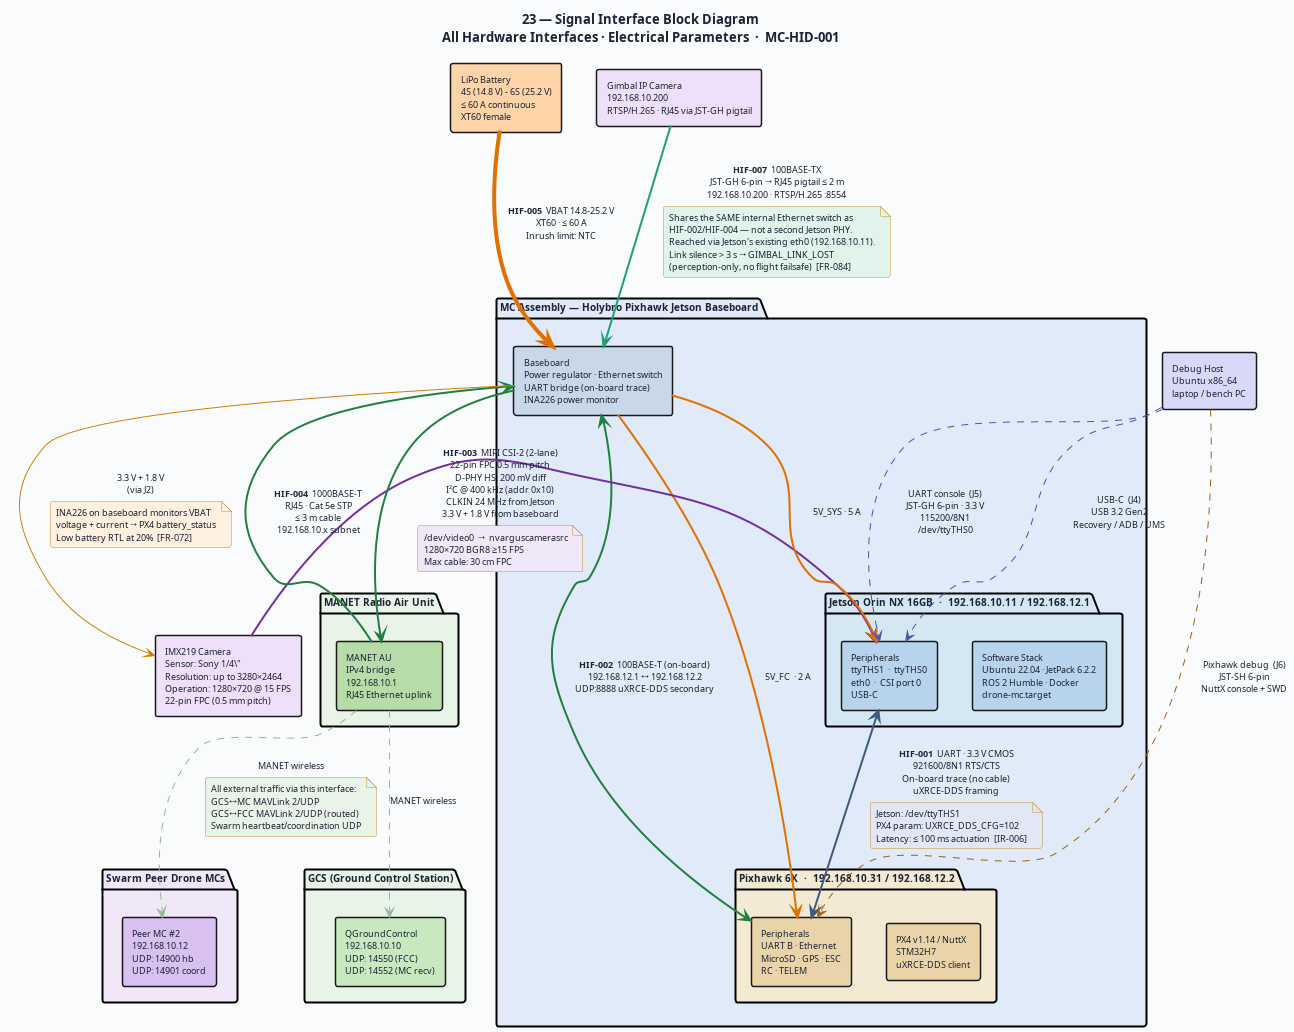
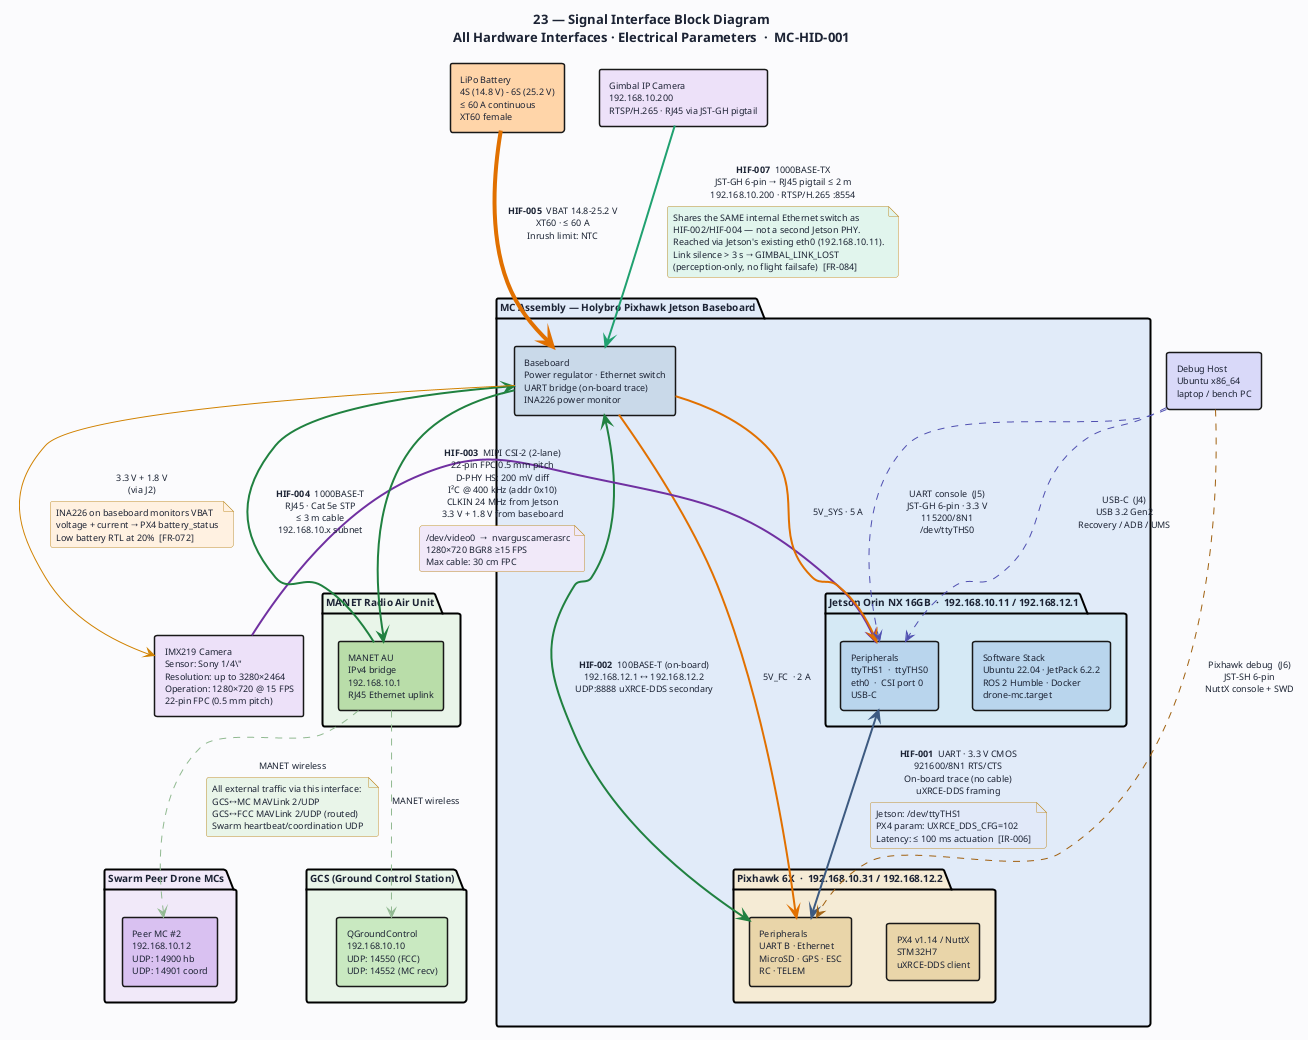
NEAR-631 - docs: update CONTRIBUTING, DEPLOYMENT, and design documents for CI/CD and network topology improvements

diff --git a/docs/CONTRIBUTING.md b/docs/CONTRIBUTING.md
@@ -106,13 +106,64 @@ Don't narrate *what* the code does when the identifier already says it —
 these three patterns are about *why* and *whose responsibility*, which
 nothing else in the repo captures.
 
+## Python style
+
+Two different flavors of Python live in this repo, and they follow
+different conventions because only one of them goes through `ament_lint_auto`:
+
+| | ROS 2 packages (`ws/src/*/`, e.g. `mc_test_utils`) | Standalone tools (`tools/`, e.g. `mission-orchestrator-sim`) |
+|---|---|---|
+| Build | `ament_cmake_python` + `ament_python_install_package()` in `CMakeLists.txt` | Plain `pip install -r requirements.txt` into a venv — no ROS 2, no colcon |
+| Lint | `ament_lint_auto` (flake8 + pep257) rides along in `colcon test`, same as C++ | None wired up — style is by convention/review only |
+| Quotes | `'single'` (flake8's default; observed consistently in `mc_test_utils/*.py`) | `"double"` (observed consistently in `mission_orchestrator_sim/*.py`) |
+| Type hints | Present but not exhaustive (mock nodes, callbacks) | Used consistently on every function signature (`cli.py`, `dialect.py`, `transport.py`) |
+
+Both flavors agree on:
+
+- `from __future__ import annotations` as the first import, in every file
+  that uses type hints.
+- Import order: standard library, blank line, then everything else
+  (third-party and local) alphabetized by module name in one block —
+  `from X import Y` and `import Z` are sorted together, not grouped
+  separately by style. Example (`ws/src/mc_test_utils/mc_test_utils/bag_playback.py`):
+
+  ```python
+  from __future__ import annotations
+
+  from rclpy.serialization import deserialize_message
+  import rosbag2_py
+  from rosidl_runtime_py.utilities import get_message
+  ```
+
+- A module-level docstring citing the ticket/spec section, in the same
+  voice as the C++ [comment culture](#comment-culture-cite-the-ticket-state-the-boundary-flag-the-gap)
+  above — what the module does, which ticket/ICD section it implements, and
+  any gap notes (see `mc_test_utils/swarm_protocol.py`'s `PEER_STATE_REQUEST`
+  and byte-count gap notes for the pattern). No copyright header block like
+  the C++ two-liner — none of the existing `.py` files carry one.
+- Executables get a `#!/usr/bin/env python3` shebang line before the
+  docstring (see `mc_test_utils/mock_fcc_node.py`); importable modules with
+  no standalone entry point don't need one.
+- `snake_case` functions/methods/variables, `PascalCase` classes — standard
+  PEP 8, no project-specific deviation.
+
+New Python code should match whichever column above it belongs to: a new
+`ws/src/` package's `.py` files follow the ROS/flake8 conventions (and must
+add the same `ament_lint_auto`/`set(ament_cmake_copyright_FOUND TRUE)`
+`CMakeLists.txt` wiring as `mc_test_utils`, per
+[Linting and formatting](#linting-and-formatting) below); a new standalone
+`tools/` script follows the double-quote/type-hint style of
+`mission-orchestrator-sim` instead of introducing a third convention.
+
 ## Linting and formatting
 
 Every package's `CMakeLists.txt` wires `ament_lint_auto` into
 `BUILD_TESTING` — running `colcon test` runs `cpplint`, `uncrustify`,
 `lint_cmake`, and `xmllint` alongside the gtest suites, so a clean
-`colcon test-result` already means the style checks passed too. Two things
-every new package needs to carry over:
+`colcon test-result` already means the style checks passed too. A Python
+package (`ament_cmake_python` build type, e.g. `mc_test_utils`) picks up
+`flake8` and `pep257` from the same `ament_lint_auto` call instead — no
+separate wiring needed. Two things every new package needs to carry over:
 
 ```cmake
 if(BUILD_TESTING)
@@ -214,6 +265,34 @@ Co-Authored-By: Claude Sonnet 5 <noreply@anthropic.com>
   trailer if Claude Code produced the commit, matching every prior commit
   in this repo's history that it authored.
 
+## CI/CD (TEST-005)
+
+Three GitHub Actions workflows, `.github/workflows/`:
+
+| Workflow | Trigger | What it does |
+|---|---|---|
+| `ci.yml` | Every PR, every push to `main` | Builds `ros2-core` (cached), then `colcon build` + `colcon test` across all of `ws/src/*` — `ament_lint_auto` (cpplint/cppcheck/uncrustify/xmllint) rides along since it's already wired into every package's `BUILD_TESTING` block (see [Linting and formatting](#linting-and-formatting) above). Results post to the job's step summary and as a downloadable artifact. |
+| `nightly-sitl.yml` | Scheduled, nightly | Placeholder until `TEST-002`'s SITL harness exists (`docs/TESTING.md`'s TP-ST row) — documented no-op, not a faked pass. |
+| `release.yml` | Push of a `v*` tag | Builds every `docker/*/Dockerfile` that exists at tag time and pushes to `ghcr.io/drone-mc/<service>:<tag>` — the automated replacement for manually running the `scripts/NN-build-*-image.sh` chain and hand-pushing tags. |
+
+See `INTEGRATION-AND-FLIGHT-TEST-PLAN.md` §2 for the design rationale
+(runner architecture, caching strategy) behind `ci.yml` specifically.
+
+### Required manual setup: branch protection
+
+GitHub doesn't expose branch protection as YAML-in-repo, so this is a
+one-time manual step in repo settings, not something any workflow file can
+do:
+
+1. **Settings → Branches → Add branch protection rule** for `main`.
+2. Enable **"Require status checks to pass before merging"** and add
+   `ci.yml`'s job (`build-test-lint`) as a required check.
+3. Enable **"Require branches to be up to date before merging"** so a
+   stale PR can't merge on an outdated green run.
+
+Until this is done, `ci.yml` still runs and reports status, but a failing
+run does not actually block a merge — it's advisory only.
+
 ## Opening a PR
 
 No PR has landed here yet, but if you open one: give it the same
@@ -223,39 +302,9 @@ your PR spans multiple commits. Keep a PR scoped to one ticket, matching
 how commits are scoped today — resist bundling unrelated tickets into one
 PR just because they touched nearby files.
 
-Every PR and every push to `main` runs `.github/workflows/ci.yml`
-(TEST-005): build `ros2-core`, `colcon build`/`colcon test` the whole
-workspace, `ament_lint_auto`'s checks (already wired into that same
-`colcon test` run — see `docs/TESTING.md`). Check the PR's own checks tab
-and job summary for results rather than re-running things by hand.
-
-### One-time manual setup: branch protection on `main`
-
-GitHub doesn't expose branch-protection rules as a committed YAML file —
-this is a one-time step a repo admin does in the GitHub UI (or via `gh api`/
-Terraform, if this repo ever grows infra-as-code for its own settings), not
-something `.github/workflows/*.yml` can configure for itself:
-
-1. Repo **Settings → Branches → Add branch protection rule**, pattern `main`.
-2. Enable **Require status checks to pass before merging**, then add the
-   `build-test` check (the job name in `.github/workflows/ci.yml`) as a
-   required check. Also enable **Require branches to be up to date before
-   merging** so a stale PR can't merge on a check result from before a
-   since-landed regression on `main`.
-3. Enable **Require a pull request before merging** (so the check above
-   actually has something to gate — a direct push bypasses required
-   checks entirely).
-4. Leave the nightly SITL workflow (`.github/workflows/nightly-sitl.yml`)
-   and the release workflow (`.github/workflows/release.yml`) out of the
-   required-checks list — they're not part of the per-PR gate: nightly
-   runs on a schedule, and release only runs on a `v*` tag.
-
-Without this step, `ci.yml` still runs and reports a status on every PR,
-but GitHub will let a PR merge with a red check — the workflow file alone
-is the mechanism, this setting is what actually makes it a gate.
-
 ## Where to go next
 
 - Writing or running tests for your change: `docs/TESTING.md`.
 - Which topics/messages your change needs to wire up or update: `docs/API-REFERENCE.md`.
 - Ticket backlog and current delivery status: `PROJECT-PLAN-5-MONTH.md`.
+- Cutting a release / how the CI/CD pipeline works: [CI/CD (TEST-005)](#cicd-test-005) above and `docs/DEPLOYMENT.md`.

diff --git a/docs/DEPLOYMENT.md b/docs/DEPLOYMENT.md
@@ -315,19 +315,24 @@ journalctl -u drone-mc-fcc-bridge -f
 MC_VERSION=1.0.0   # then restart the target
 ```
 
-Producing the `ghcr.io/drone-mc/<service>:${MC_VERSION}` images themselves
-is no longer a manual `scripts/NN-build-*-image.sh` chain + hand-pushed
-tags — pushing a `v1.0.0` git tag runs `.github/workflows/release.yml`
-(TEST-005), which builds every `docker/*/Dockerfile` that exists at that
-point and pushes each to `ghcr.io/drone-mc/<service>:1.0.0`. The
-`MC_VERSION=1.0.0` step above (setting which already-published tag a given
-drone runs) is unchanged — that's a per-drone deploy choice, not part of
-building the images.
-
 `scripts/02b-smoke-test-units.sh` verifies units/target/slices are
 installed, valid, and enabled without starting anything real;
 `LIVE_CHECK=1 ./scripts/02b-smoke-test-units.sh` additionally does a real
 boot test. See `docs/TESTING.md` for the full TP-SM smoke-test picture.
+
+## Cutting a release (TEST-005)
+
+Pushing a `v*` tag (e.g. `v1.0.0`) triggers `.github/workflows/release.yml`,
+which builds every `docker/*/Dockerfile` that exists at that point and
+pushes each to `ghcr.io/drone-mc/<service>:<tag>` — the same
+`ghcr.io/drone-mc/<service>:${MC_VERSION}` naming the systemd units above
+already reference. This replaces manually running the numbered
+`scripts/NN-build-*-image.sh` chain and hand-pushing tags; those scripts
+still work for a local/dev build (see `CLAUDE.md`'s Build System section),
+they're just no longer the release path. Set `MC_VERSION` on each drone to
+the tag pushed and restart `drone-mc.target` to roll it out. See
+`docs/CONTRIBUTING.md`'s [CI/CD (TEST-005)](CONTRIBUTING.md#cicd-test-005)
+section for the other two workflows (`ci.yml`, `nightly-sitl.yml`).
 
 ## Where to go next
 

diff --git a/docs/design/HID-MC-001.md b/docs/design/HID-MC-001.md
@@ -82,8 +82,8 @@ External peripherals              Baseboard                 Internal modules
 LiPo battery (4S–6S) ─────────► Power regulation ────────► Jetson (5 V, 3 A)
                                                    ────────► Pixhawk (5 V, 2 A)
 
-MANET radio ──────── RJ45/SFP ──► Ethernet switch ─────────► Jetson eth0 (192.168.10.11)
-                                                  ─────────► Pixhawk Ethernet port (192.168.10.31)
+MANET radio ──────── RJ45/SFP ──► Ethernet switch (10/100/1000, ─► Jetson eth0 (192.168.10.11)
+                                    single switch, no 2nd PHY) ──► Pixhawk Ethernet port (192.168.10.31, 100BASE-T)
 
                                  UART bridge ──────────────► Jetson ttyTHS1 (uXRCE-DDS primary)
                                  (on-board trace)          ► Pixhawk TELEM2 / UART B
@@ -651,7 +651,7 @@ PX4 writes a new `.ulg` file on each arm event. Logs are essential for post-flig
 
 | Parameter | Value |
 |---|---|
-| Interface type | 100BASE-TX Ethernet |
+| Interface type | 1000BASE-TX Ethernet |
 | On-board path | JST-GH port on the Holybro baseboard's **internal Ethernet switch** — the same switch fabric used by HIF-002 (Jetson↔Pixhawk) and HIF-004 (MANET radio AU), §2.2 |
 | Connector type | JST-GH 6-pin, 1.25 mm pitch — labelled **ETH port 1** on baseboard silkscreen |
 | Jetson device node | `eth0` — the Jetson has a single Ethernet NIC; the camera is simply another switched host reachable over the existing HIF-002/HIF-004 interface, not a dedicated Jetson port |
